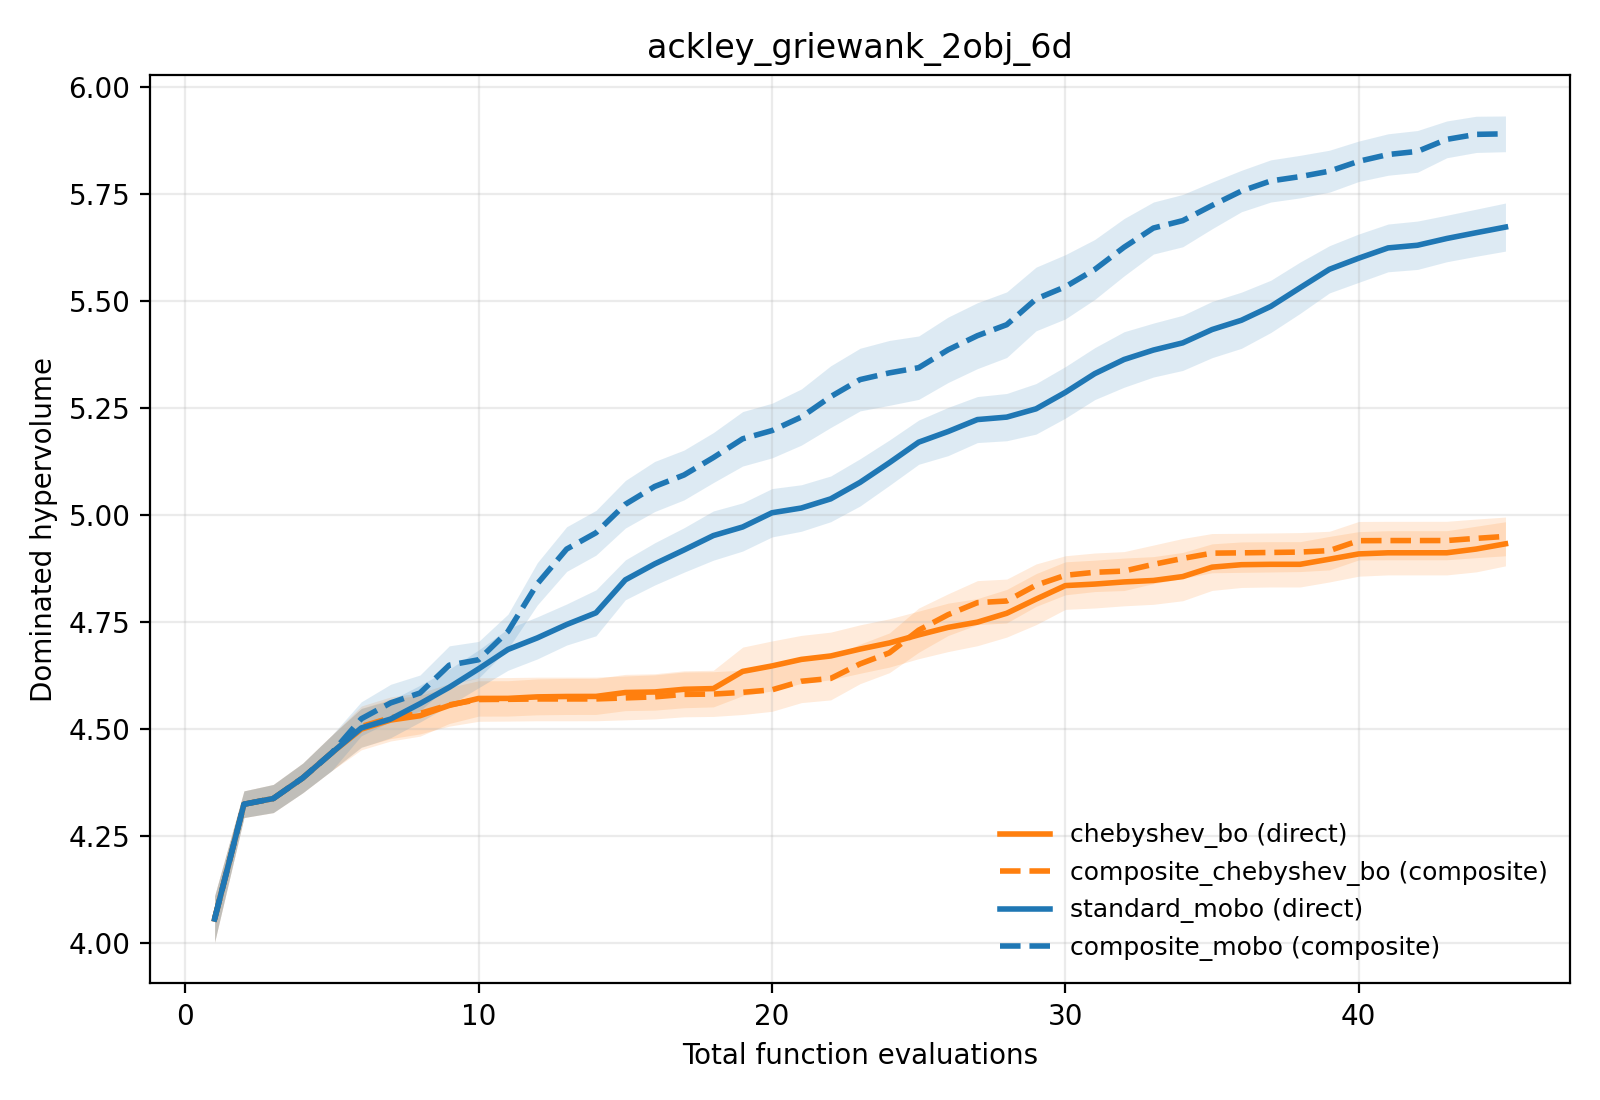
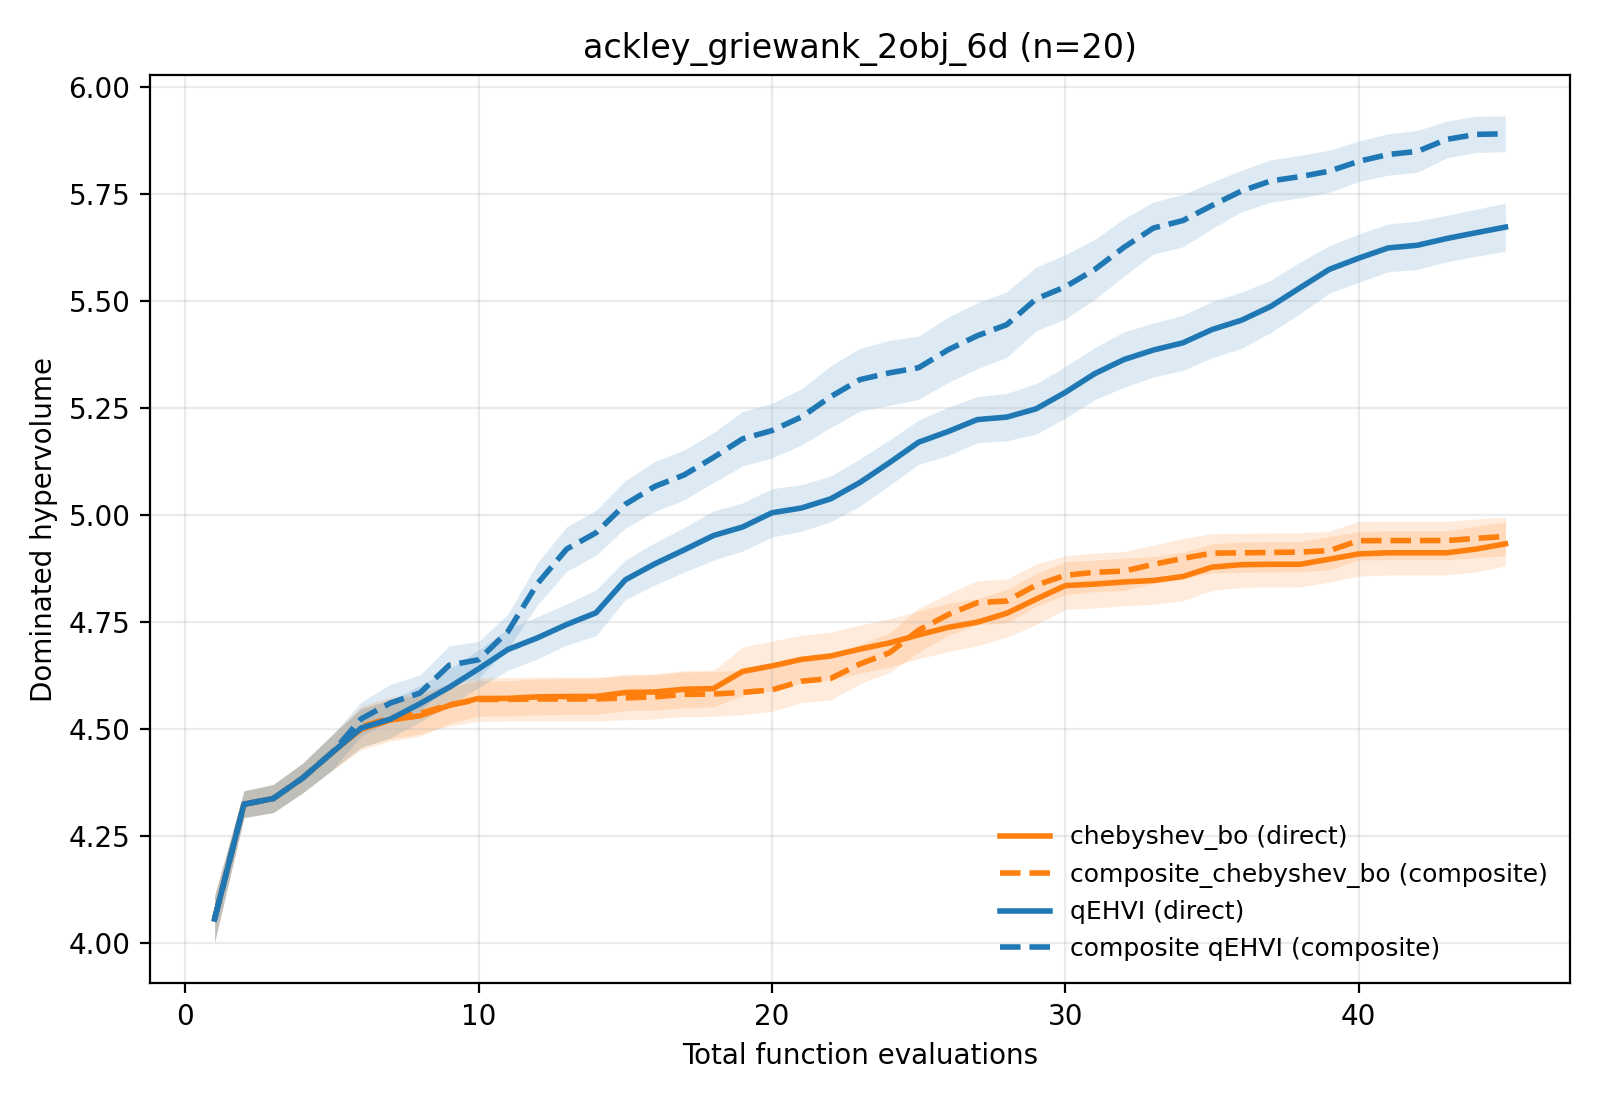
Relabel standard_mobo/composite_mobo as qEHVI/composite qEHVI in plots

Changed region(s): [[0.625, 0.7418, 0.9688, 0.8655], [0.3438, 0.0309, 0.7188, 0.0618], [0.8438, 0.8345, 0.875, 0.8655]]

diff --git a/composite_ablation/plot_ablation.py b/composite_ablation/plot_ablation.py
@@ -33,6 +33,15 @@ _COLORS = {
     "batched_morbo / composite_batched_morbo": "#9467bd",
 }
 
+# Display-only renames for legend labels -- "standard_mobo" is
+# tau315/composite-mobo's own name for plain independent-GP qLogEHVI;
+# labeling it qEHVI (its actual acquisition function) is clearer than the
+# internal solver-function name it happens to be called in solvers.py.
+_DISPLAY_NAMES = {
+    "standard_mobo": "qEHVI",
+    "composite_mobo": "composite qEHVI",
+}
+
 
 def _mean_and_sem(traces: np.ndarray) -> tuple:
     # Ragged if a mid-pair timeout left trials of different lengths --
@@ -79,9 +88,13 @@ def plot_benchmark_dir(results_dir: Path, output: Path, title: str = None) -> No
 
         if len(direct_traces) == 0:
             continue
+        direct_name, composite_name = name.split(" / ")
+        direct_name = _DISPLAY_NAMES.get(direct_name, direct_name)
+        composite_name = _DISPLAY_NAMES.get(composite_name, composite_name)
+
         mean, sem = _mean_and_sem(direct_traces)
         evals = np.arange(1, len(mean) + 1)
-        ax.plot(evals, mean, linestyle="-", color=color, linewidth=2.0, label=f"{name.split(' / ')[0]} (direct)")
+        ax.plot(evals, mean, linestyle="-", color=color, linewidth=2.0, label=f"{direct_name} (direct)")
         ax.fill_between(evals, mean - sem, mean + sem, color=color, alpha=0.15, linewidth=0)
         plotted_any = True
         seed_counts.append(len(direct_traces))
@@ -92,7 +105,7 @@ def plot_benchmark_dir(results_dir: Path, output: Path, title: str = None) -> No
         evals_c = np.arange(1, len(mean_c) + 1)
         ax.plot(
             evals_c, mean_c, linestyle="--", color=color, linewidth=2.0,
-            label=f"{name.split(' / ')[-1]} (composite)",
+            label=f"{composite_name} (composite)",
         )
         ax.fill_between(evals_c, mean_c - sem_c, mean_c + sem_c, color=color, alpha=0.15, linewidth=0)
         seed_counts.append(len(composite_traces))
